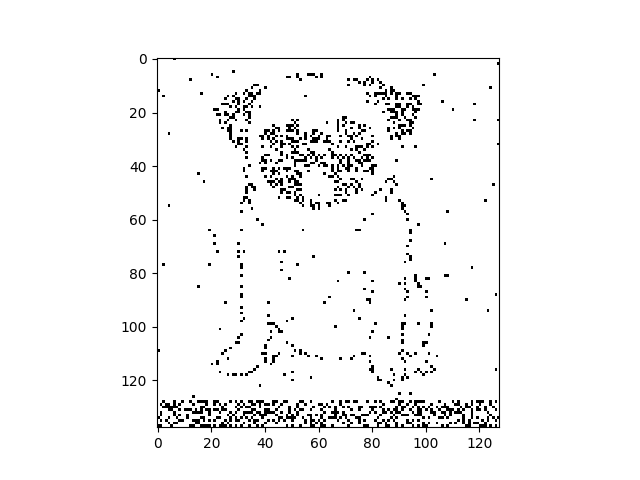
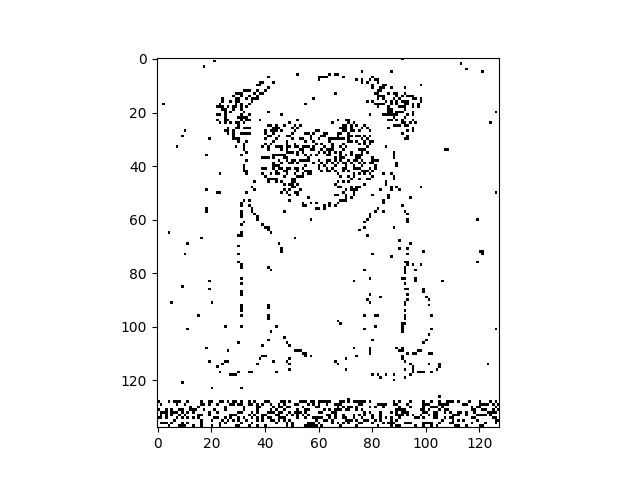
update

diff --git a/task6.py b/task6.py
@@ -5,49 +5,10 @@ import math
 
 prop = 0.7
 varSigma = 0.5
-# image = imread('images/loli_grey.png')
-image = imread('images/pug_binary.jpg')
+image = imread('images/loli_grey.png')
 M = image.shape[0]
 N = image.shape[1]
 image = image/255 * 2 -1
-
-def get_gibbs_probability(neighbour_value, observed_value):
-    energy =  neighbour_value
-    probx_given_x1 = 1 / (1 + math.exp(energy))
-    probx_given_x2 = 1 - probx_given_x1
-    sigma = 2
-    proby_given_x1 = (1 / (2 * math.pi)) * math.exp(1/2*(observed_value-1)**2)
-    proby_given_x2 = (1 / (2 * math.pi)) * math.exp(1/2*(observed_value+1)**2)
-    proby_givenx = 1 / (sigma * math.sqrt(2 * math.pi)) * math.exp(-math.pow((observed_value - 1),2) / (2 * math.pow(sigma,2)))
-    proby_givenmx = 1 / (sigma * math.sqrt(2 * math.pi)) * math.exp(-math.pow((observed_value),2) / (2 * math.pow(sigma,2)))
-    probability = proby_given_x1*probx_given_x1/proby_given_x1*probx_given_x1+proby_given_x2*probx_given_x2
-    # print(probability)
-    return probability
-
-# def prob_gibbs(neighbour_values, observed_value):
-#     index_nei = 4/len(neighbour_values)
-#     sigma = 0.5
-#     nei_similarity = sum(target * neighbour_values)
-#     probx_givenx = 1 / (1 + math.exp(-nei_similarity * index_nei)) #sigmoid #probx = 1 / (1 + math.exp(-nei_energy)) * math.pow(0.5, len(neighbour_values))
-#     probmx_givenx = 1 - probx_givenx
-#     proby_givenx = 1 / (sigma * math.sqrt(2 * math.pi)) * math.exp(-math.pow((observed_value - 1),2) / (2 * math.pow(sigma,2)))
-#     proby_givenmx = 1 / (sigma * math.sqrt(2 * math.pi)) * math.exp(-math.pow((observed_value),2) / (2 * math.pow(sigma,2)))
-#     result = (proby_givenx * probx_givenx)/(proby_givenx * probx_givenx + proby_givenmx * probmx_givenx)
-#     # print(target,nei_similarity,observed_value,result)
-#     return result
-
-def gibbs_sampling_ising():
-    for times in range(10):
-        for i in range(M):
-            for j in range(N):
-                u = np.random.uniform()
-                probability = gibbs_calculate()
-                if probability > u:
-                    x = 1
-                else:
-                    x = -1
-    return x
-
 
 def add_gaussian_noise(image, prop, varSigma):
     N = int(np.round(np.prod(image.shape) * prop))
@@ -108,7 +69,8 @@ def icm(i, j, observed_image, drawed_image):
     for neighbour in neighbours:
         neighbours_sum += drawed_image[neighbour[0]][neighbour[1]]
     observed_value = observed_image[i][j]
-    prob = get_gibbs_probability(neighbours_sum, observed_value)
+    mu = 0
+    
     #flip
     old_pixel = drawed_image[i][j]
     t = np.random.uniform(-1,1,1)
@@ -134,7 +96,7 @@ if __name__ == "__main__":
                 image_noise[i][j] = -1
     observed_image = np.copy(image_noise)
     drawed_image = np.copy(image_noise)
-    for times in range(10):
+    for times in range(20):
         pixel_change = 0
         for i in range(M):
             for j in range(N):
